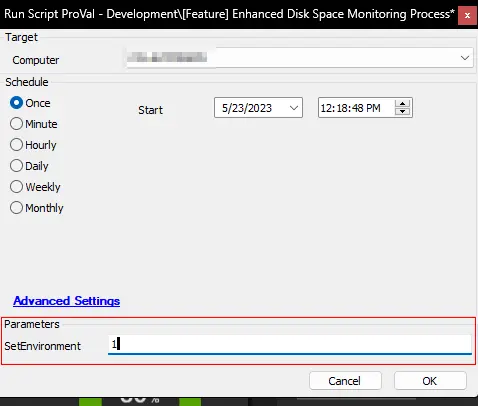
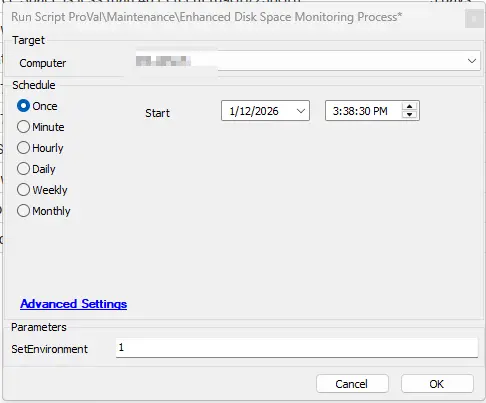
Updated Enhanced drive space Solution
- Changed the name of the linked documents
- added solution document to each document
- updated the image in the script document

diff --git a/docs/solutions/enhanced-drive-space-monitoring.md b/docs/solutions/enhanced-drive-space-monitoring.md
@@ -20,16 +20,16 @@ Being able to monitor drive space using specifically assigned thresholds elimina
 
 | Content                                                                                                                                          | Type            | Function                                                                                                                                                                    |
 |--------------------------------------------------------------------------------------------------------------------------------------------------|-----------------|----------------------------------------------------------------------------------------------------------------------------------------------------------------------------|
-| [Internal Monitor - ProVal - Production - Agent - Enhanced Drive Space Monitor](/docs/f7235a0b-b6b6-456d-8af3-bd3471b1e70f)              | Internal monitor | Determines target machine/drives that violate set thresholds. Used to run the associated script to clean up the drive with Soji                                        |
+| [Internal Monitor - Agent - Enhanced Drive Space Monitor](/docs/f7235a0b-b6b6-456d-8af3-bd3471b1e70f)              | Internal monitor | Determines target machine/drives that violate set thresholds. Used to run the associated script to clean up the drive with Soji                                        |
 | [Internal Monitor - Agent - Enhanced Drive Space Monitor [Ticket Management]](/docs/4535820b-8254-4b20-bb7c-f68b2f05494e)                  | Internal monitor | Needs to be imported in case the partner wants to reopen prematurely closed tickets for the machines where the issue persists                                          |
-| [EPM - Disk - Script - Enhanced Disk Space Monitoring Process](/docs/8efd9cc2-b054-4dda-a690-bbe1d4bd16b3)                                | Autofix script   | Double-checks thresholds, runs the Soji-agnostic script on the target endpoint for the target drive, and creates/closes ticket(s).                                      |
+| [Script - Enhanced Disk Space Monitoring Process](/docs/8efd9cc2-b054-4dda-a690-bbe1d4bd16b3)                                | Autofix script   | Double-checks thresholds, runs the Soji-agnostic script on the target endpoint for the target drive, and creates/closes ticket(s).                                      |
 | △ Custom - Autofix - Enhanced Drive Space Monitoring                                                                                           | Alert Template   | The alert template runs the Autofix script on the machines detected by the alert template.                                                                                |
 
 ### Other Content
 
 | Content                                                                                                                                          | Type            | Function                                                                                                                                                                    |
 |--------------------------------------------------------------------------------------------------------------------------------------------------|-----------------|----------------------------------------------------------------------------------------------------------------------------------------------------------------------------|
-| [EPM - Disk - Automate - Script - Soji - Disk Space Management](/docs/47f53d1e-f609-46f8-b407-ccdf11eeede4)                              | Function Script  | Called by the Autofix script [EPM - Disk - Script - Enhanced Disk Space Monitoring Process](/docs/8efd9cc2-b054-4dda-a690-bbe1d4bd16b3) to perform disk cleanup. |
+| [Script - Soji - Disk Space Management](/docs/47f53d1e-f609-46f8-b407-ccdf11eeede4)                              | Function Script  | Called by the Autofix script [Script - Enhanced Disk Space Monitoring Process](/docs/8efd9cc2-b054-4dda-a690-bbe1d4bd16b3) to perform disk cleanup. |
 
 ## Implementation
 
@@ -37,7 +37,7 @@ Being able to monitor drive space using specifically assigned thresholds elimina
    - [Script - Enhanced Disk Space Monitoring Process](/docs/8efd9cc2-b054-4dda-a690-bbe1d4bd16b3)
 
 2. Import the monitors below using the ProSync Plugin:
-   - [Internal Monitor - ProVal - Production - Agent - Enhanced Drive Space Monitor](/docs/f7235a0b-b6b6-456d-8af3-bd3471b1e70f)
+   - [Internal Monitor - Agent - Enhanced Drive Space Monitor](/docs/f7235a0b-b6b6-456d-8af3-bd3471b1e70f)
    - [Internal Monitor - Agent - Enhanced Drive Space Monitor [Ticket Management]](/docs/4535820b-8254-4b20-bb7c-f68b2f05494e)
 
 3. Import the Alert Templates below using the ProSync plugin:
@@ -47,7 +47,7 @@ Being able to monitor drive space using specifically assigned thresholds elimina
 
 5. Reload the System Cache
 6. **If custom thresholds have been requested**:  
-   Use the instructions in the [Script - Enhanced Disk Space Monitoring Process](/docs/8efd9cc2-b054-4dda-a690-bbe1d4bd16b3) and the [Internal Monitor - ProVal - Production - Agent - Enhanced Drive Space Monitor](/docs/f7235a0b-b6b6-456d-8af3-bd3471b1e70f) to configure System Properties and EDFs as per the partner's requirements. If nothing was specified by the consultant, assume the defaults are what is requested:
+   Use the instructions in the [Script - Enhanced Disk Space Monitoring Process](/docs/8efd9cc2-b054-4dda-a690-bbe1d4bd16b3) and the [Internal Monitor - Agent - Enhanced Drive Space Monitor](/docs/f7235a0b-b6b6-456d-8af3-bd3471b1e70f) to configure System Properties and EDFs as per the partner's requirements. If nothing was specified by the consultant, assume the defaults are what is requested:
    - **If you configured any custom thresholds**, please run the following to get the monitor to update its results quickly. (Or wait 25 minutes)
      - If you updated any Group Level EDFs
        - `Call V_Extradata(7, 'Groups');`
@@ -57,7 +57,7 @@ Being able to monitor drive space using specifically assigned thresholds elimina
        - `Call V_ExtradataRefresh(1, 'Computers');`
 
 7. Navigate to Automation -> Monitors and set up the following:
-   - [Internal Monitor - ProVal - Production - Agent - Enhanced Drive Space Monitor](/docs/f7235a0b-b6b6-456d-8af3-bd3471b1e70f)  
+   - [Internal Monitor - Agent - Enhanced Drive Space Monitor](/docs/f7235a0b-b6b6-456d-8af3-bd3471b1e70f)  
      Configure with the alert template: `△ Custom - Autofix - Enhanced Drive Space Monitoring`
    - [Internal Monitor - Agent - Enhanced Drive Space Monitor [Ticket Management]](/docs/4535820b-8254-4b20-bb7c-f68b2f05494e)  
      Configure with the alert template: `△ Custom - Autofix - Enhanced Drive Space Monitoring`
@@ -66,7 +66,7 @@ Being able to monitor drive space using specifically assigned thresholds elimina
    - Unless otherwise specified by the consultant, enable both monitors on the Managed 24x7 + 8x5 groups for both servers and workstations.
 
 9. Navigate to Automation -> Monitors and set up the following:
-   - [Internal Monitor - ProVal - Production - Agent - Enhanced Drive Space Monitor](/docs/f7235a0b-b6b6-456d-8af3-bd3471b1e70f)  
+   - [Internal Monitor - Agent - Enhanced Drive Space Monitor](/docs/f7235a0b-b6b6-456d-8af3-bd3471b1e70f)  
      Right-click and Run Now to start the monitor.
    - [Internal Monitor - Agent - Enhanced Drive Space Monitor [Ticket Management]](/docs/4535820b-8254-4b20-bb7c-f68b2f05494e)  
      Set this to run starting the following day at 5:50 AM  

diff --git a/docs/cwa/scripts/enhanced-disk-space-monitoring-process.md b/docs/cwa/scripts/enhanced-disk-space-monitoring-process.md
@@ -48,20 +48,21 @@ After importing the script, it should either be debugged or run against any comp
 
 ## Dependencies
 
-- [EPM - Disk - Internal Monitor - ProVal - Production - Agent - Enhanced Drive Space Monitor](/docs/f7235a0b-b6b6-456d-8af3-bd3471b1e70f)
-- [EPM - Disk - Automate - Script - Soji - Disk Space Management](/docs/47f53d1e-f609-46f8-b407-ccdf11eeede4)
+- [Solution - Enhanced Drive Space Monitoring](/docs/0757e19d-56e4-4491-83b3-6012fde3b753)
+- [Internal Monitor - Enhanced Drive Space Monitor](/docs/f7235a0b-b6b6-456d-8af3-bd3471b1e70f)
+- [Script - Soji - Disk Space Management](/docs/47f53d1e-f609-46f8-b407-ccdf11eeede4)
 
 ## Variables
 
 | Name                  | Description                                                                                                          |
 |-----------------------|----------------------------------------------------------------------------------------------------------------------|
-| STATUS                | Status returned by the [EPM - Disk - Internal Monitor - ProVal - Production - Agent - Enhanced Drive Space Monitor](/docs/f7235a0b-b6b6-456d-8af3-bd3471b1e70f) monitor set. (Success/Failure) |
+| STATUS                | Status returned by the [Internal Monitor - Agent - Enhanced Drive Space Monitor](/docs/f7235a0b-b6b6-456d-8af3-bd3471b1e70f) monitor set. (Success/Failure) |
 | DriveLetter           | Drive Letter returned by the monitor set.                                                                           |
 | DriveSize             | Size of the concerned drive in MB.                                                                                 |
 | InitialFree           | Free drive space in MB before performing the disk cleanup.                                                         |
-| sojicomment           | Result returned by the [EPM - Disk - Automate - Script - Soji - Disk Space Management](/docs/47f53d1e-f609-46f8-b407-ccdf11eeede4) script. |
-| finishstatus          | Finish Status returned by the [EPM - Disk - Automate - Script - Soji - Disk Space Management](/docs/47f53d1e-f609-46f8-b407-ccdf11eeede4) script. (True/False) |
-| SojiFailureComment    | Failures returned by the [EPM - Disk - Automate - Script - Soji - Disk Space Management](/docs/47f53d1e-f609-46f8-b407-ccdf11eeede4) script, if any. |
+| sojicomment           | Result returned by the [Script - Soji - Disk Space Management](/docs/47f53d1e-f609-46f8-b407-ccdf11eeede4) script. |
+| finishstatus          | Finish Status returned by the [Script - Soji - Disk Space Management](/docs/47f53d1e-f609-46f8-b407-ccdf11eeede4) script. (True/False) |
+| SojiFailureComment    | Failures returned by the [Script - Soji - Disk Space Management](/docs/47f53d1e-f609-46f8-b407-ccdf11eeede4) script, if any. |
 | nowfree               | Free drive space in MB after performing the disk cleanup.                                                          |
 | freed                 | Amount of drive space in MB freed after performing the disk cleanup.                                               |
 | TicketCreationCategory | Ticket Category ID for the ticket to create.                                                                      |
@@ -71,7 +72,7 @@ After importing the script, it should either be debugged or run against any comp
 | TicketBody            | Ticket Summary or comment to add to the ticket.                                                                    |
 | Reschedule            | Script sets this variable to `1` while rescheduling itself so that it can be checked whether it's the first run or not at the next execution. |
 | OfflineExecutions      | Stores the number of times the script had executed consecutively for the computer when it's offline.                |
-| Monitorid             | ID of the [EPM - Disk - Internal Monitor - ProVal - Production - Agent - Enhanced Drive Space Monitor](/docs/f7235a0b-b6b6-456d-8af3-bd3471b1e70f) monitor set to set to the ticket. |
+| Monitorid             | ID of the [Internal Monitor - Agent - Enhanced Drive Space Monitor](/docs/f7235a0b-b6b6-456d-8af3-bd3471b1e70f) monitor set to set to the ticket. |
 
 ### Global Parameters
 
@@ -133,7 +134,7 @@ OS: <OperatingSystem>
 Serial Number: <SerialNumber>
 ```
 
-**\<SojiComment> can be different and it depends on the results returned by the disk cleanup script [EPM - Disk - Automate - Script - Soji - Disk Space Management](/docs/47f53d1e-f609-46f8-b407-ccdf11eeede4)**
+**\<SojiComment> can be different and it depends on the results returned by the disk cleanup script [Script - Soji - Disk Space Management](/docs/47f53d1e-f609-46f8-b407-ccdf11eeede4)**
 
 **For a successful run of the script:**
 
@@ -149,7 +150,7 @@ A brief report of large files, user profiles, and program files taking up space 
 The tool Soji (Temp File Cleanup Application) was run and failed due to an unexpected error. Please refer to the internal notes to determine the root cause.
 ```
 
-**Another ticket comment will be added if the [EPM - Disk - Automate - Script - Soji - Disk Space Management](/docs/47f53d1e-f609-46f8-b407-ccdf11eeede4) script fails:**
+**Another ticket comment will be added if the [Script - Soji - Disk Space Management](/docs/47f53d1e-f609-46f8-b407-ccdf11eeede4) script fails:**
 
 ```
 Script logs from the Soji (Temp File Cleanup Tool) Script:

diff --git a/docs/cwa/monitors/enhanced-drive-space-monitor-ticket-management.md b/docs/cwa/monitors/enhanced-drive-space-monitor-ticket-management.md
@@ -18,17 +18,18 @@ This monitor replicates the functionality of the Internal Monitor: 'Enhanced Dri
 
 ## Dependencies
 
-- [EPM - Disk - Script - Enhanced Disk Space Monitoring Process](/docs/8efd9cc2-b054-4dda-a690-bbe1d4bd16b3)
-- [Internal Monitor - ProVal - Production - Agent - Enhanced Drive Space Monitor](/docs/f7235a0b-b6b6-456d-8af3-bd3471b1e70f)
+- [Script - Enhanced Disk Space Monitoring Process](/docs/8efd9cc2-b054-4dda-a690-bbe1d4bd16b3)
+- [Internal Monitor - Agent - Enhanced Drive Space Monitor](/docs/f7235a0b-b6b6-456d-8af3-bd3471b1e70f)
+- [Solution - Enhanced Drive Space Monitoring](/docs/0757e19d-56e4-4491-83b3-6012fde3b753)
 
 ## How to Configure
 
-This monitor must be configured the same as the [Internal Monitor - ProVal - Production - Agent - Enhanced Drive Space Monitor](/docs/f7235a0b-b6b6-456d-8af3-bd3471b1e70f) with the same alert template. It will use the same group and computer-level EDFs.
+This monitor must be configured the same as the [Internal Monitor - Agent - Enhanced Drive Space Monitor](/docs/f7235a0b-b6b6-456d-8af3-bd3471b1e70f) with the same alert template. It will use the same group and computer-level EDFs.
 
-Simply import this monitor and set the alert template that has been used by the [Internal Monitor - ProVal - Production - Agent - Enhanced Drive Space Monitor](/docs/f7235a0b-b6b6-456d-8af3-bd3471b1e70f).
+Simply import this monitor and set the alert template that has been used by the [Internal Monitor - Agent - Enhanced Drive Space Monitor](/docs/f7235a0b-b6b6-456d-8af3-bd3471b1e70f).
 
 ## Caution
 
-Ensure that the [EPM - Disk - Script - Enhanced Disk Space Monitoring Process](/docs/8efd9cc2-b054-4dda-a690-bbe1d4bd16b3) uses the same name as the [Internal Monitor - ProVal - Production - Agent - Enhanced Drive Space Monitor](/docs/f7235a0b-b6b6-456d-8af3-bd3471b1e70f) at line 54. Otherwise, both monitors will not be able to detect the tickets.
+Ensure that the [Script - Enhanced Disk Space Monitoring Process](/docs/8efd9cc2-b054-4dda-a690-bbe1d4bd16b3) uses the same name as the [Internal Monitor - Agent - Enhanced Drive Space Monitor](/docs/f7235a0b-b6b6-456d-8af3-bd3471b1e70f) at line 54. Otherwise, both monitors will not be able to detect the tickets.
 
 ![Image](../../../static/img/docs/4535820b-8254-4b20-bb7c-f68b2f05494e/image_1.webp)

diff --git a/docs/cwa/monitors/agent-enhanced-drive-space-monitor.md b/docs/cwa/monitors/agent-enhanced-drive-space-monitor.md
@@ -44,7 +44,8 @@ Overall, the monitoring system is designed to track drive space and generate ale
 
 ## Dependencies
 
-- [EPM - Disk - Script - Enhanced Disk Space Monitoring Process](/docs/8efd9cc2-b054-4dda-a690-bbe1d4bd16b3)
+- [Script - Enhanced Disk Space Monitoring Process](/docs/8efd9cc2-b054-4dda-a690-bbe1d4bd16b3)
+- [Solution - Enhanced Drive Space Monitoring](/docs/0757e19d-56e4-4491-83b3-6012fde3b753)
 
 ## Target
 
@@ -123,7 +124,7 @@ In the above example:
 ## Ticket Category
 
 - Connectwise Manage board, type, and priority for the ticket can be set by setting the proper ticket category.
-- The ticket will be created by the [EPM - Disk - Script - Enhanced Disk Space Monitoring Process](/docs/8efd9cc2-b054-4dda-a690-bbe1d4bd16b3) script and the ticket category can be set at the following levels:
+- The ticket will be created by the [Script - Enhanced Disk Space Monitoring Process](/docs/8efd9cc2-b054-4dda-a690-bbe1d4bd16b3) script and the ticket category can be set at the following levels:
   - In the script's global variables. Setting the relevant ticket category ID in these global variables will allow the script to create tickets under those categories.  
     ![image](../../../static/img/docs/f7235a0b-b6b6-456d-8af3-bd3471b1e70f/image_6.webp)
   - At the group level. The ticket category can be set from the groups where the internal monitor is applied. This ticket category will only be picked if global variables are set to 0.  
